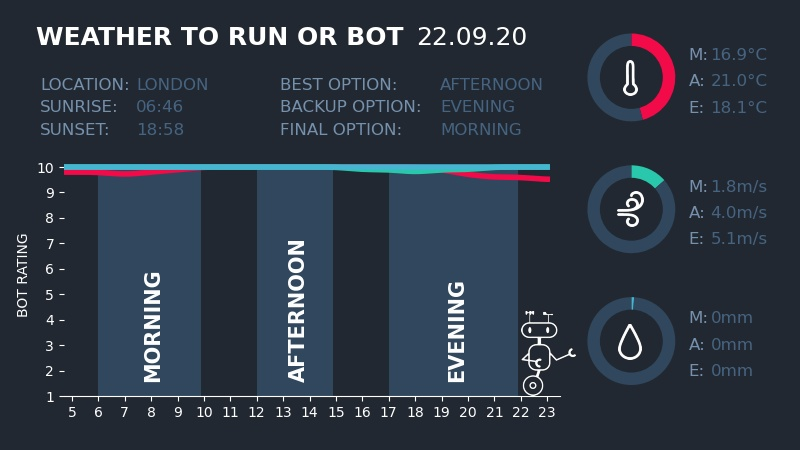
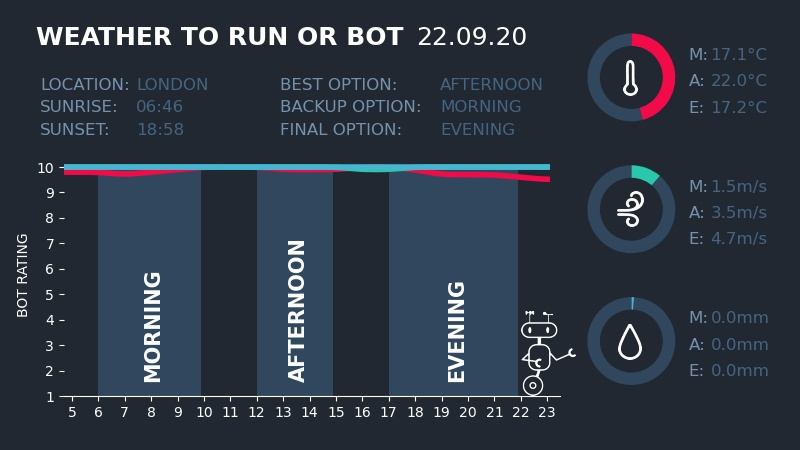
Fixed many bugs that surfaced from getting the weather at different cities around the world. The main source of the bug was the local time. I am now using OpenWeathers timezone_offset number to correctly convert to UTC to local time and now using utcfromtimestamp to convert unix time to utc datetime

diff --git a/weather/day_weather.py b/weather/day_weather.py
@@ -23,15 +23,22 @@ class TimePeriod(TimeElement):
         self.hours = []
         self.alert_level = ""
 
-    def average_score(self):
+    def aggregate_score(self, method="min"):
         if self.hours:
             all_temp_scores = [hour.temp_score for hour in self.hours]
             all_wind_scores = [hour.wind_score for hour in self.hours]
             all_precip_scores = [hour.precipitation_score for hour in self.hours]
 
-            self.temp_score = round(sum(all_temp_scores) / len(all_temp_scores), 2)
-            self.wind_score = round(sum(all_wind_scores) / len(all_wind_scores), 2)
-            self.precipitation_score = all_precip_scores[len(all_precip_scores) // 2]  # this may need changing!
+            if method.lower() == "min":
+                self.temp_score = round(min(all_temp_scores), 2)
+                self.wind_score = round(min(all_wind_scores), 2)
+                self.precipitation_score = round(min(all_precip_scores), 2)
+            elif method.lower() == "average":
+                self.temp_score = round(sum(all_temp_scores) / len(all_temp_scores), 2)
+                self.wind_score = round(sum(all_wind_scores) / len(all_wind_scores), 2)
+                self.precipitation_score = all_precip_scores[len(all_precip_scores) // 2]
+            else:
+                print(f'Aggregate score method "{method}" not recognised')  # Need to raise an error here instead
 
     def judge_score(self, bands=config.ALERT_BANDS):
         worst_alert_level = ""
@@ -70,13 +77,13 @@ class Day(TimePeriod):
                f"({', '.join([name.title() for name, segment in self.segments.items()])}))"
 
     def add_forecast(self):
-        hourly_forecasts, daily_forecasts = forecast.fetch_forecast(location=self.location)
+        hourly_forecasts, daily_forecasts, timezone_offset = forecast.fetch_forecast(location=self.location)
         day_temps = []
         for hour_forecast in hourly_forecasts:
-            is_this_day = self.date == datetime.datetime.fromtimestamp(hour_forecast["dt"]).date()
+            is_this_day = self.date == datetime.datetime.utcfromtimestamp(hour_forecast["dt"] + timezone_offset).date()
             if not is_this_day:
                 continue
-            this_hour = Hour(datetime.datetime.fromtimestamp(hour_forecast["dt"]).hour)
+            this_hour = Hour(datetime.datetime.utcfromtimestamp(hour_forecast["dt"] + timezone_offset).hour)
             this_hour.temp_c = hour_forecast["feels_like"]  # Using "feels like" temp makes sense for scoring
             this_hour.wind_mps = hour_forecast["wind_speed"]
             this_hour.precipitation_type = str(int(hour_forecast["weather"][0]["id"]))
@@ -89,11 +96,11 @@ class Day(TimePeriod):
         self._segment_forecast()
 
         for day_forecast in daily_forecasts:
-            is_this_day = self.date == datetime.datetime.fromtimestamp(day_forecast["dt"]).date()
+            is_this_day = self.date == datetime.datetime.utcfromtimestamp(day_forecast["dt"] + timezone_offset).date()
             if not is_this_day:
                 continue
-            self.sunrise = datetime.datetime.fromtimestamp(day_forecast["sunrise"]).time()
-            self.sunset = datetime.datetime.fromtimestamp(day_forecast["sunset"]).time()
+            self.sunrise = datetime.datetime.utcfromtimestamp(day_forecast["sunrise"] + timezone_offset).time()
+            self.sunset = datetime.datetime.utcfromtimestamp(day_forecast["sunset"] + timezone_offset).time()
             self.temp_c = round(sum(day_temps) / len(day_temps), 2)  # Using average daily temperature for now
             self.wind_mps = day_forecast["wind_speed"]
             self.precipitation_type = str(int(day_forecast["weather"][0]["id"]))
@@ -108,9 +115,10 @@ class Day(TimePeriod):
             hour.precipitation_score = precip_scores_dict[hour.precipitation_type]
 
         for seg_name, segment in self.segments.items():
-            segment.average_score()
+            segment.aggregate_score(method="min")  # the worst weather in that given time period
 
-        self.average_score()
+        # self.average_score()  # average for the day determines the tone of the tweet
+        self.aggregate_score(method="min")  # not obvious if the alert level should judged off the worst or av score
         self.judge_score()
 
     def rank_segments(self, segments_to_rank=None):
@@ -146,7 +154,7 @@ class Day(TimePeriod):
 
         # Update segment attributes after segments have hours
         for seg_name, segment in self.segments.items():
-            segment.average_weather()
+            segment.aggregate_weather()
 
 
 class DaySegment(TimePeriod):
@@ -163,7 +171,7 @@ class DaySegment(TimePeriod):
     def __repr__(self):
         return f"{self.__class__.__name__}({self.name.title()}({self.start_time} - {self.end_time}))"
 
-    def average_weather(self):
+    def aggregate_weather(self):
         all_temp_c = [hour.temp_c for hour in self.hours]
         all_wind_mps = [hour.wind_mps for hour in self.hours]
         all_precip_types = [hour.precipitation_type for hour in self.hours]
@@ -174,7 +182,7 @@ class DaySegment(TimePeriod):
         self.wind_mps = round(sum(all_wind_mps) / len(all_wind_mps), 2)
         self.precipitation_type = all_precip_types[len(all_precip_types) // 2]  # this may need changing!
         self.precipitation_prob = round(sum(all_precip_probs) / len(all_precip_probs), 2)  # this may need changing!
-        self.precipitation_mm = round(sum(all_precip_mm) / len(all_precip_mm), 2)  # this may need changing!
+        self.precipitation_mm = round(sum(all_precip_mm), 2)  # this may need changing!
 
 
 class Hour(TimeElement):

diff --git a/main.py b/main.py
@@ -7,17 +7,17 @@ from bots import config
 
 def rankings_interpreter(rankings):
     # Simple ranking interpreter that returns the best ranked day segments
-    segments = []
-    alert_level = ""
+    all_segements = []
+    best_segments = []
     is_first = True
     for level, segs in rankings.items():
         if segs:
             for seg in segs:
-                segments.append(seg.name)
+                all_segements.append(seg.name)
             if is_first:
-                alert_level = level
+                best_segments = [seg.name for seg in segs]
                 is_first = False
-    return segments, alert_level
+    return best_segments, all_segements
 
 
 def produce_dashboard_image(day, rankings, filename, to_show=False):
@@ -29,10 +29,11 @@ def daily_tweet(api_obj):
     tomorrow = day_weather.Day()
     tomorrow.score_forecast()
     tomorrow.rank_segments()
-    choices, tone = rankings_interpreter(tomorrow.rankings)
+    choices, order = rankings_interpreter(tomorrow.rankings)
+    tone = tomorrow.alert_level
 
     fname = f"dashboards/dashboard_{tomorrow.date.strftime('%d-%m-%y')}.jpg"
-    produce_dashboard_image(tomorrow, choices, fname, to_show=False)
+    produce_dashboard_image(tomorrow, order, fname, to_show=False)
 
     tweet_templates = tweet_composer.get_tweet_templates("bots/tweet_content.yaml")
     tweet_text = tweet_composer.compose_tweet(choices, tone, tweet_templates)
@@ -47,21 +48,24 @@ def tweet_your_weather(location):
     your_tomorrow = day_weather.Day(location=location)
     your_tomorrow.score_forecast()
     your_tomorrow.rank_segments()
-    choices, tone = rankings_interpreter(your_tomorrow.rankings)
+    choices, order = rankings_interpreter(your_tomorrow.rankings)
+    tone = your_tomorrow.alert_level
 
     fname = f"dashboards/test_dashboard_{your_tomorrow.date.strftime('%d-%m-%y')}.jpg"
-    produce_dashboard_image(your_tomorrow, choices, fname, to_show=True)
+    produce_dashboard_image(your_tomorrow, order, fname, to_show=True)
 
     tweet_templates = tweet_composer.get_tweet_templates("bots/tweet_content.yaml")
     tweet_text = tweet_composer.compose_tweet(choices, tone, tweet_templates)
+    print(tweet_text)
     # TODO finish this function
 
 
 if __name__ == "__main__":
 
     # Create API object
-    api = config.create_api()
-    daily_tweet(api)
+    # api = config.create_api()
+    # daily_tweet(api)
 
-    # test_loc = {"Tokyo": (35.6974, 139.7946)}
-    # tweet_your_weather(test_loc)
+    test_loc = {"Houston": (29.760427, -95.369804)}
+    # test_loc = {"Tokyo": (35.689487, 139.691711)}
+    tweet_your_weather(test_loc)

diff --git a/weather/forecast.py b/weather/forecast.py
@@ -23,10 +23,11 @@ def fetch_forecast(location):
 
     response = requests.get(url)
     full_response_dict = response.json()
+    timezone_offset = full_response_dict["timezone_offset"]
     hourly_forecast = full_response_dict["hourly"]
     daily_forecast = full_response_dict["daily"]
 
-    return hourly_forecast, daily_forecast
+    return hourly_forecast, daily_forecast, timezone_offset
 
 
 def wind_speed_to_score(wind_speed):
@@ -177,11 +178,11 @@ def plot_scores(day, rankings, to_show):
     my_circle = plt.Circle((0, 0), 0.7, color=colours.background)
     ax4.add_artist(my_circle)
     ax4.text(1.3, 0.4, "M:", color=colours.info_field, fontsize=12)
-    ax4.text(1.8, 0.4, f"{day.segments['morning'].precipitation_mm:.0f}mm", color=colours.info_text, fontsize=12)
+    ax4.text(1.8, 0.4, f"{day.segments['morning'].precipitation_mm:.1f}mm", color=colours.info_text, fontsize=12)
     ax4.text(1.3, -0.2, "A:", color=colours.info_field, fontsize=12)
-    ax4.text(1.8, -0.2, f"{day.segments['afternoon'].precipitation_mm:.0f}mm", color=colours.info_text, fontsize=12)
+    ax4.text(1.8, -0.2, f"{day.segments['afternoon'].precipitation_mm:.1f}mm", color=colours.info_text, fontsize=12)
     ax4.text(1.3, -0.8, "E:", color=colours.info_field, fontsize=12)
-    ax4.text(1.8, -0.8, f"{day.segments['evening'].precipitation_mm:.0f}mm", color=colours.info_text, fontsize=12)
+    ax4.text(1.8, -0.8, f"{day.segments['evening'].precipitation_mm:.1f}mm", color=colours.info_text, fontsize=12)
     # ax4.text(-0.2, -0.2, "P", color='white', fontsize=17)
     ax_drop = fig.add_axes([0.747, 0.2, 0.08, 0.08])
     im_drop = mpimg.imread('assets/drop.png')

diff --git a/README.md b/README.md
@@ -40,11 +40,11 @@ time to run in their location is. The replies must follow these formatting rules
     
 An example reply and response by the Twitter bot would be:
 
-Reply: "@weather_to_run #whataboutme Tokyo"
+Reply: "@weather_to_run #whataboutme Houston"
 
-Bot response: "Hello Tokyo! What a great day to be alive! You're in luck, good weather all round! What are you waiting for?!"
+Bot response: "\[Incoming Alert\] The morning is best for a run, that's my best guess... I say go for it"
 
-![Example of a weather dashboard](readme_images/tokyo_dashboard_22-09-20.jpg)
+![Example of a weather dashboard](readme_images/houston_dashboard_22-09-20.jpg)
 
 ### Follow Back
 _Not yet implemented_
